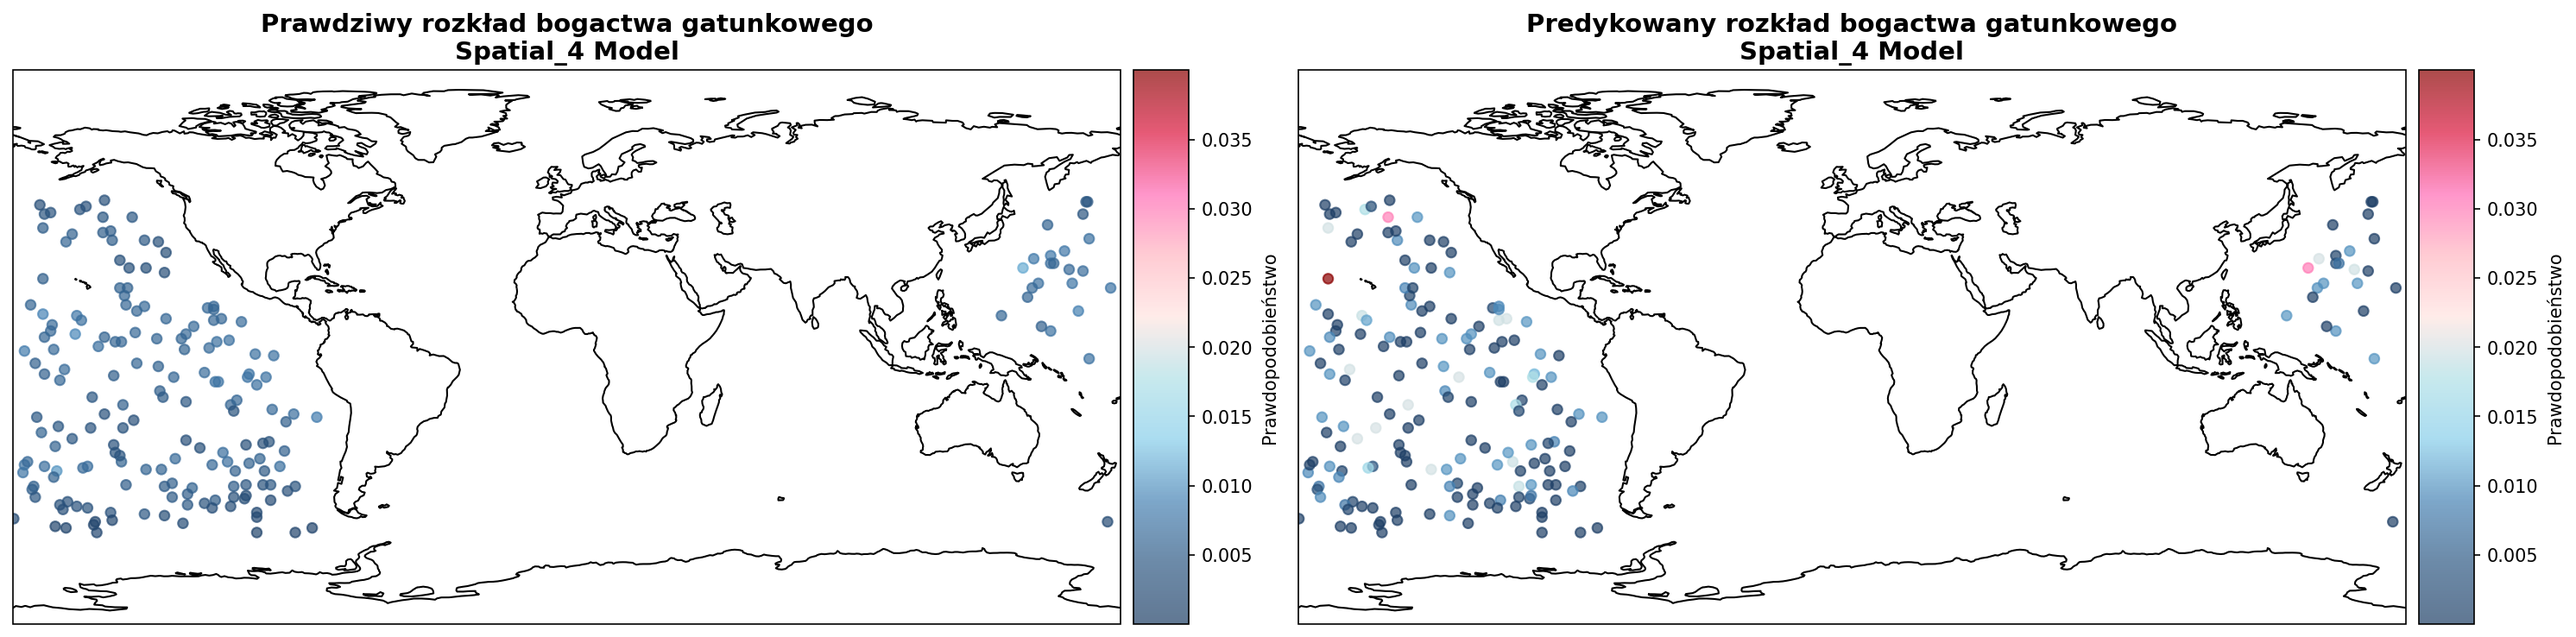
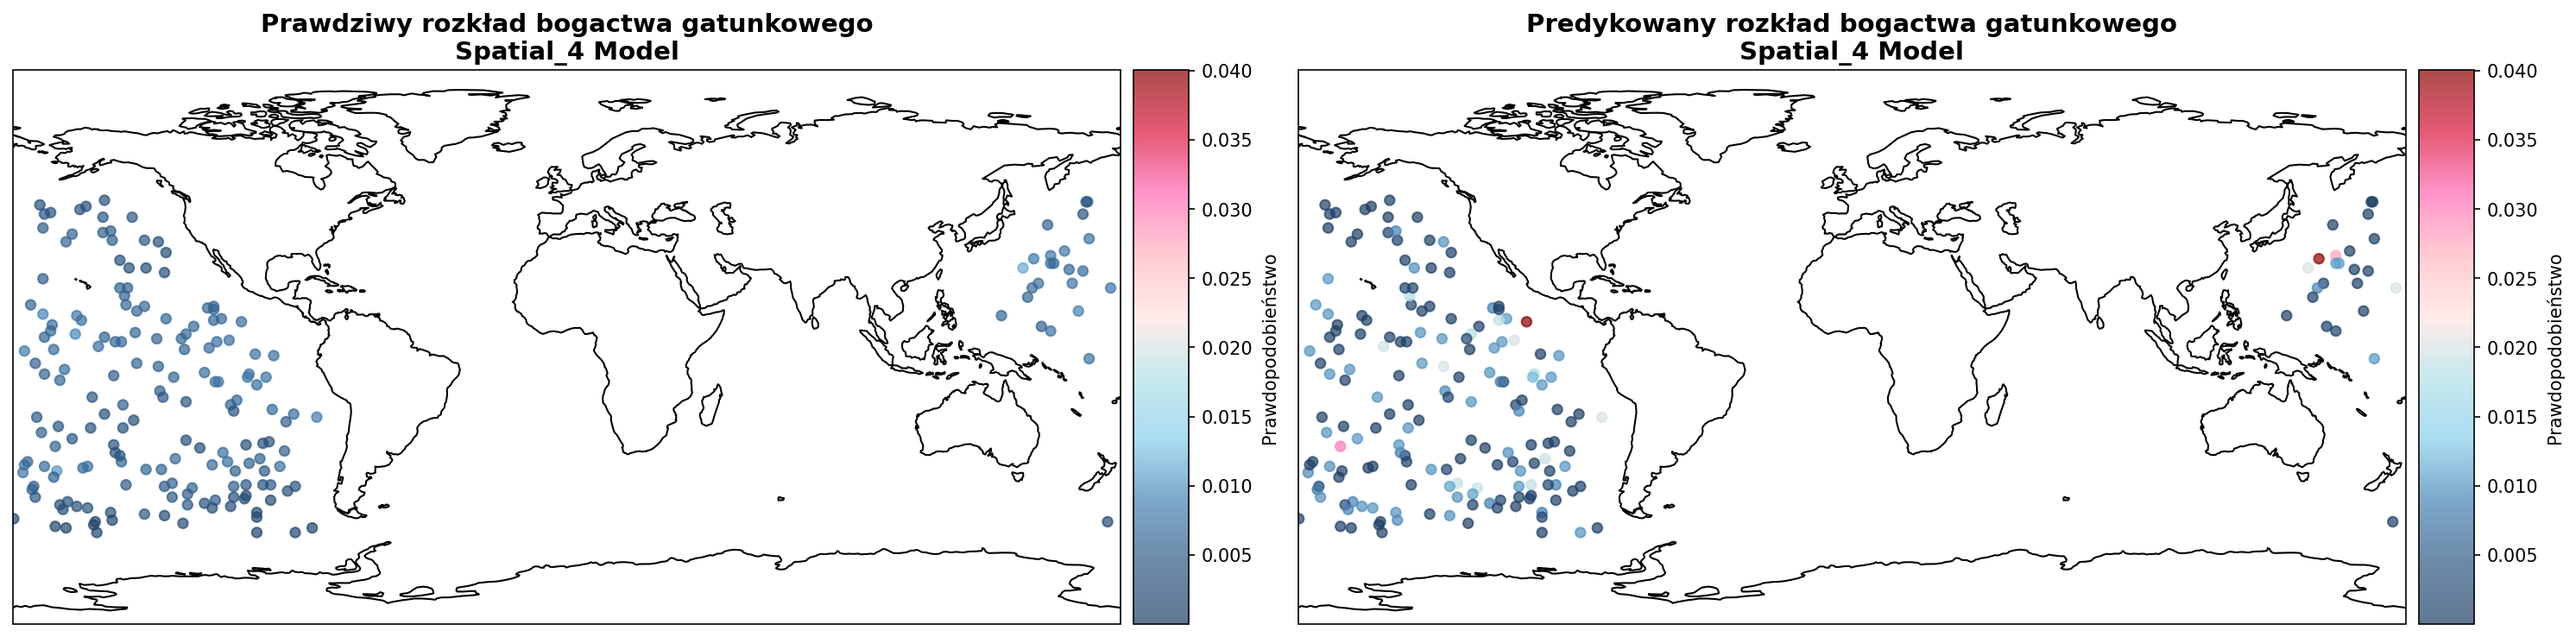
kolejne zmiany

diff --git a/BayesianModelSystem/Modele/bayesian_field.py b/BayesianModelSystem/Modele/bayesian_field.py
@@ -517,7 +517,7 @@ class LogisticNormalMCMC:
     with an interface consistent with other models in this module.
     """
     def __init__(self, space_points, metric_func, observed_indices,
-                 lengthscale=1000.0, variance=1.0, distance_unit='km',
+                 lengthscale=50.0, variance=1.0, distance_unit='km',
                  mu_prior=0.0):
         print("\n▶ [LOGISTIC-NORMAL-MCMC] Inicjalizacja modelu...")
         self.space_points = list(space_points)
@@ -573,20 +573,37 @@ class LogisticNormalMCMC:
                 raise ValueError("Macierz kowariancji nie jest dodatnio określona.")
             self.log_prior_norm_const = -0.5 * (self.n * np.log(2 * np.pi) + logdet)
 
+    def _log_posterior(self, Z):
+        """
+        Poprawione log-posterior dla multinomial logistic-normal.
+        
+        Prior: Z ~ N(mu_prior, K)
+        Wiara: counts ~ Multinomial(N, softmax(Z))
+        """
+        # Term priora (Gauss)
+        diff = Z - self.mu_prior
+        prior_term = -0.5 * diff.T @ self.K_inv @ diff + self.log_prior_norm_const
+        
+        # Term wiarygodności (multinomial)
+        p = np.exp(Z - np.max(Z))  # stabilność numeryczna
+        p = p / np.sum(p)
+        likelihood_term = np.sum(self.counts * np.log(p + 1e-12))
+        
+        return prior_term + likelihood_term
+
     def przygotuj_predykcyjny(self, num_samples, burn_in, proposal_scale, seed=None):
         print("\n" + "="*70)
         print("▶ [MCMC] START SAMPLERA DLA MODELU LOGISTIC-NORMAL")
         print("="*70)
 
-        if seed is not None: np.random.seed(seed)
+        if seed is not None: 
+            np.random.seed(seed)
         
         if self.K_inv is None:
             raise RuntimeError("Należy najpierw uruchomić 'przygotuj_apriori'.")
 
         Z_current = np.full(self.n, self.mu_prior)
-        logpost_current = log_posterior_logistic_normal_fast(
-            Z_current, self.counts, self.N, self.K_inv, self.log_prior_norm_const, self.mu_prior
-        )
+        logpost_current = self._log_posterior(Z_current)
 
         cov_prop = (proposal_scale**2) * self.K
         try:
@@ -613,9 +630,7 @@ class LogisticNormalMCMC:
             z_norm = np.random.normal(0, 1, self.n)
             Z_prop = Z_current + L_prop @ z_norm
 
-            logpost_prop = log_posterior_logistic_normal_fast(
-                Z_prop, self.counts, self.N, self.K_inv, self.log_prior_norm_const, self.mu_prior
-            )
+            logpost_prop = self._log_posterior(Z_prop)
 
             accept = False
             if np.isfinite(logpost_prop):
@@ -626,7 +641,8 @@ class LogisticNormalMCMC:
             if accept:
                 Z_current = Z_prop
                 logpost_current = logpost_prop
-                if i >= burn_in: accepted += 1
+                if i >= burn_in: 
+                    accepted += 1
         
             if i >= burn_in:
                 samples.append(Z_current.copy())
@@ -639,7 +655,13 @@ class LogisticNormalMCMC:
         
         self.samples_Z = np.array(samples)
         if len(self.samples_Z) > 0:
-            self.samples_x = np.array([z_to_x_softmax(z_sample) for z_sample in self.samples_Z])
+            # Transformacja Z -> p (softmax)
+            self.samples_x = []
+            for z_sample in self.samples_Z:
+                p = np.exp(z_sample - np.max(z_sample))
+                p = p / np.sum(p)
+                self.samples_x.append(p)
+            self.samples_x = np.array(self.samples_x)
         else:
             self.samples_x = np.array([])
         

diff --git a/BayesianModelSystem/config/default_params.py b/BayesianModelSystem/config/default_params.py
@@ -7,12 +7,12 @@ def get_configuration():
         'base_params': {
             'cutoff_km': 1000,
             'co_ktory': 200,
-            'n_observations': 50000,
+            'n_observations': 2000,
             'n_points': 0
         },
         'models_to_test': [
-            ('bayesian', {
-                'lengthscale': 500,
+             ('logistic_normal_mcmc', {
+                'lengthscale': 1750,
                 'variance': 1.0,
                 'distance_unit': "km",
                 'mcmc_samples': 5000,
@@ -29,8 +29,8 @@ def get_configuration():
                 'mcmc_scale': 0.05,
                 'mcmc_seed': 42
             }),
-            ('dirichlet', {}),
-            ('spatial', {'smoothing_factor': 0.1})
+            #('dirichlet', {}),
+            #('spatial', {'smoothing_factor': 0.1})
         ],
         'impact_models_to_test': [
             ('bayesian', {
